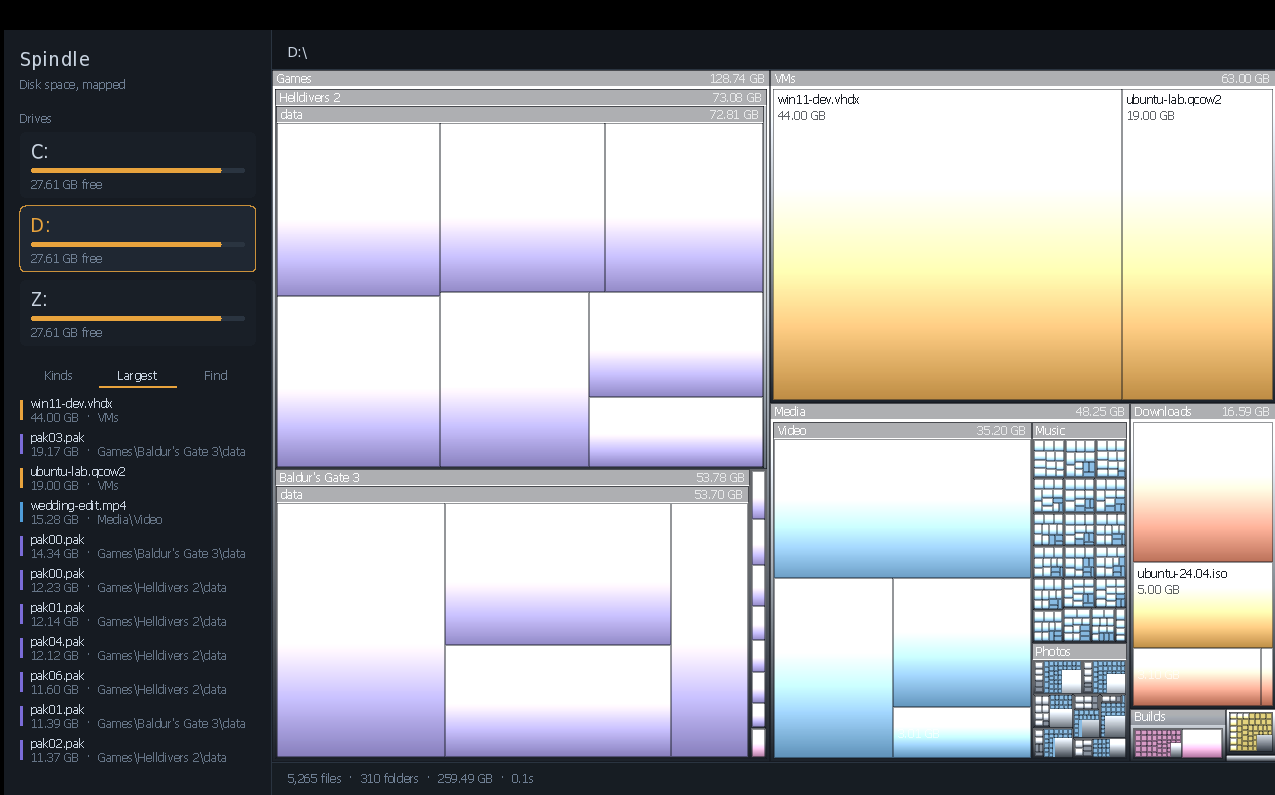
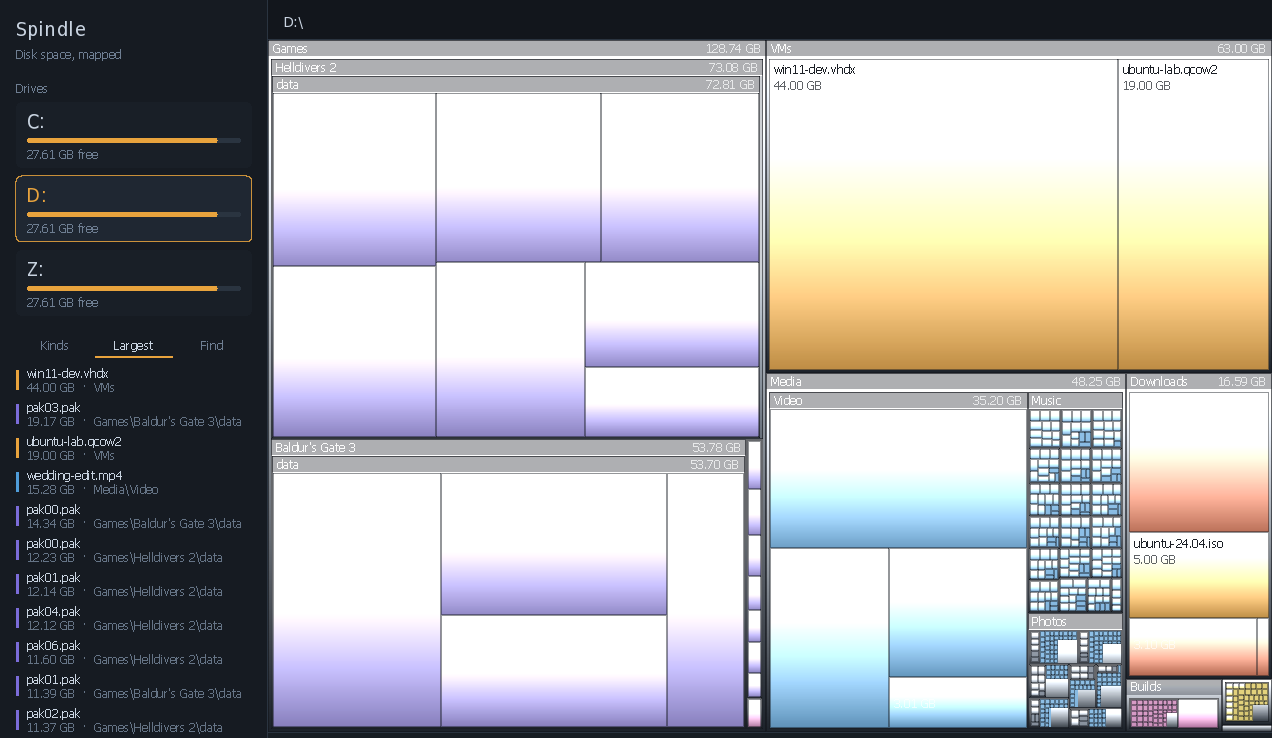
Bring the README up to date with the last week of work
The prose covered the treemap, the cache, force removal, search and the
rendering notes, but nothing since: duplicates, comparing scans, the
hardlink and cloud-file honesty, the command line, and the Explorer verb
were all missing, so the repo undersold what the tool does.

Adds a Duplicates section (the tiering, the exact pair comparison, cloud
and hardlink handling, click-to-open, verified recycle, and the
across-every-drive pool) with a screenshot of the panel; a "what's really
reclaimable" section for the hardlink and cloud totals; a comparing-scans
section; and a command-line section covering --csv, --duplicates, UNC
paths, exit codes and the opt-in shell verb. The build section notes the
ARM64 target, ThreadSanitizer and make stress. Screenshots are real
captures of the current binary.

diff --git a/README.md b/README.md
@@ -70,7 +70,110 @@ refused outright — not by the dialog, but in the removal code itself, so
 there is no path to them. It never terminates a system process, and never
 touches the registry.
 
+## Duplicates
+
+![the Dupes panel, pooled across drives](docs/duplicates.png)
+
+Finding duplicates means reading file *contents* — the one thing the scanner
+otherwise never does — so it is a deliberate button in the **Dupes** panel,
+not something that happens on its own. It is also bounded hard, in tiers, so
+almost nothing is read in full:
+
+1. **Same size.** Two files of different lengths cannot be identical, so this
+   is free and eliminates almost everything.
+2. **First 16 KB, then last 16 KB.** Most files that merely share a size
+   differ within the first few kilobytes; the ones that do not are usually a
+   format with a fixed header — disk images, media containers — which the
+   tail then separates.
+3. **The rest.** Only what survives all three is read in full. A group of
+   exactly two — the common case — is confirmed by comparing the two byte for
+   byte rather than hashing both: exact where a 128-bit digest is only
+   near-certain, and stopped at the first differing byte. Three or more group
+   by digest, which is O(n) reads where comparing every pair would be O(n²).
+
+Measured on twenty 100 MB files that share a size and differ at the first
+byte — the case the naive "hash everything" loses worst — it reads 320 KB
+where reading each in full would read 2 GB.
+
+**Cloud files are never downloaded to be compared.** A OneDrive placeholder
+is recognised and skipped, and the read handle is opened so that a file which
+became a placeholder since the scan refuses rather than fetches. **Hardlinks
+are excluded** — they are already the same bytes, and "deduplicating" one
+frees nothing.
+
+Click a result to open it in Explorer. Right-click it to recycle that copy —
+but only after Spindle has proved, byte for byte, that another identical copy
+remains, so the last copy can never be the one deleted, and never on the
+strength of a hash. It goes to the Recycle Bin, reversibly, and asks first.
+
+**Across every scanned drive.** The second button pools candidates from every
+drive's remembered scan, so a file that exists once on `C:` and once on `D:`
+— the duplicate a single-folder search can never see — is found. Each row
+carries its own drive, so the list stays unambiguous.
+
+## What's really reclaimable
+
+Sizes are logical file length, which overstates what deleting actually frees.
+Two cases matter enough that the status bar names them:
+
+**Hardlinked bytes exist once**, however many names point at them — WinSxS is
+built this way, and a tool that reports its apparent size as recoverable is
+lying by tens of gigabytes. On the MFT path, where the link count is free, a
+hardlinked file is marked and its bytes are totalled separately.
+
+**Cloud-only bytes are not on the disk at all.** A OneDrive placeholder has a
+size on paper and occupies little or nothing locally, so it is counted apart
+rather than folded into a figure that claims local space you are not using.
+
+## Comparing scans
+
+The cache holds the last finished scan of each drive, so "what ate my disk
+this week" needs nothing new on disk. **Compare with the cached scan** (in the
+`···` menu) diffs the two: what grew, shrank, appeared and vanished, largest
+movement first, with a one-megabyte floor so the answer is a place to look
+rather than a wall of rows. A folder that appeared is reported once at its
+root, not as ten thousand files inside it.
+
+## Command line
+
+A command line makes Task Scheduler the scheduler — a better answer than a
+service that has to be kept alive — and is how a UNC path gets scanned at all,
+since only lettered volumes are enumerated in the window.
+
+```
+spindle.exe [path]                 open the window on a volume, folder or
+                                     \\server\share
+spindle.exe --csv <file> <path>    scan, write CSV, exit — no window
+spindle.exe --duplicates [bytes] <path>   include a duplicate report
+spindle.exe --version | --help
+```
+
+With `--csv` nothing is shown and the exit code is 0 on success, 1 on failure,
+so a scheduled task can act on it. Anything beginning with a dash is treated
+as a mistyped option, never a path, so a typo can never start a scan by
+accident.
+
+Spindle can also add a **Scan with Spindle** entry to a folder's right-click
+menu (in the `···` menu). It is off by default and the only thing in the
+program that writes to the registry — per-user under `HKCU`, no elevation, and
+unticking removes exactly the keys ticking it created.
+
 ## Building
+
+Cross-compiles for **x86-64** and, with llvm-mingw, **ARM64** (`make
+ARCH=aarch64`).
+
+## Building
+
+Requires MinGW-w64. Cross-compiles for **x86-64** from Linux (also MSYS2), and
+for **ARM64** with llvm-mingw via `make ARCH=aarch64`.
+
+```
+make            # build/spindle.exe
+make test       # 900+ assertions under ASan, UBSan and ThreadSanitizer
+make stress     # the scanner's concurrency structure over a real tree
+make analyze    # cppcheck + clang-tidy
+```
 
 Requires MinGW-w64. Cross-compiles from Linux; also builds under MSYS2.
 
